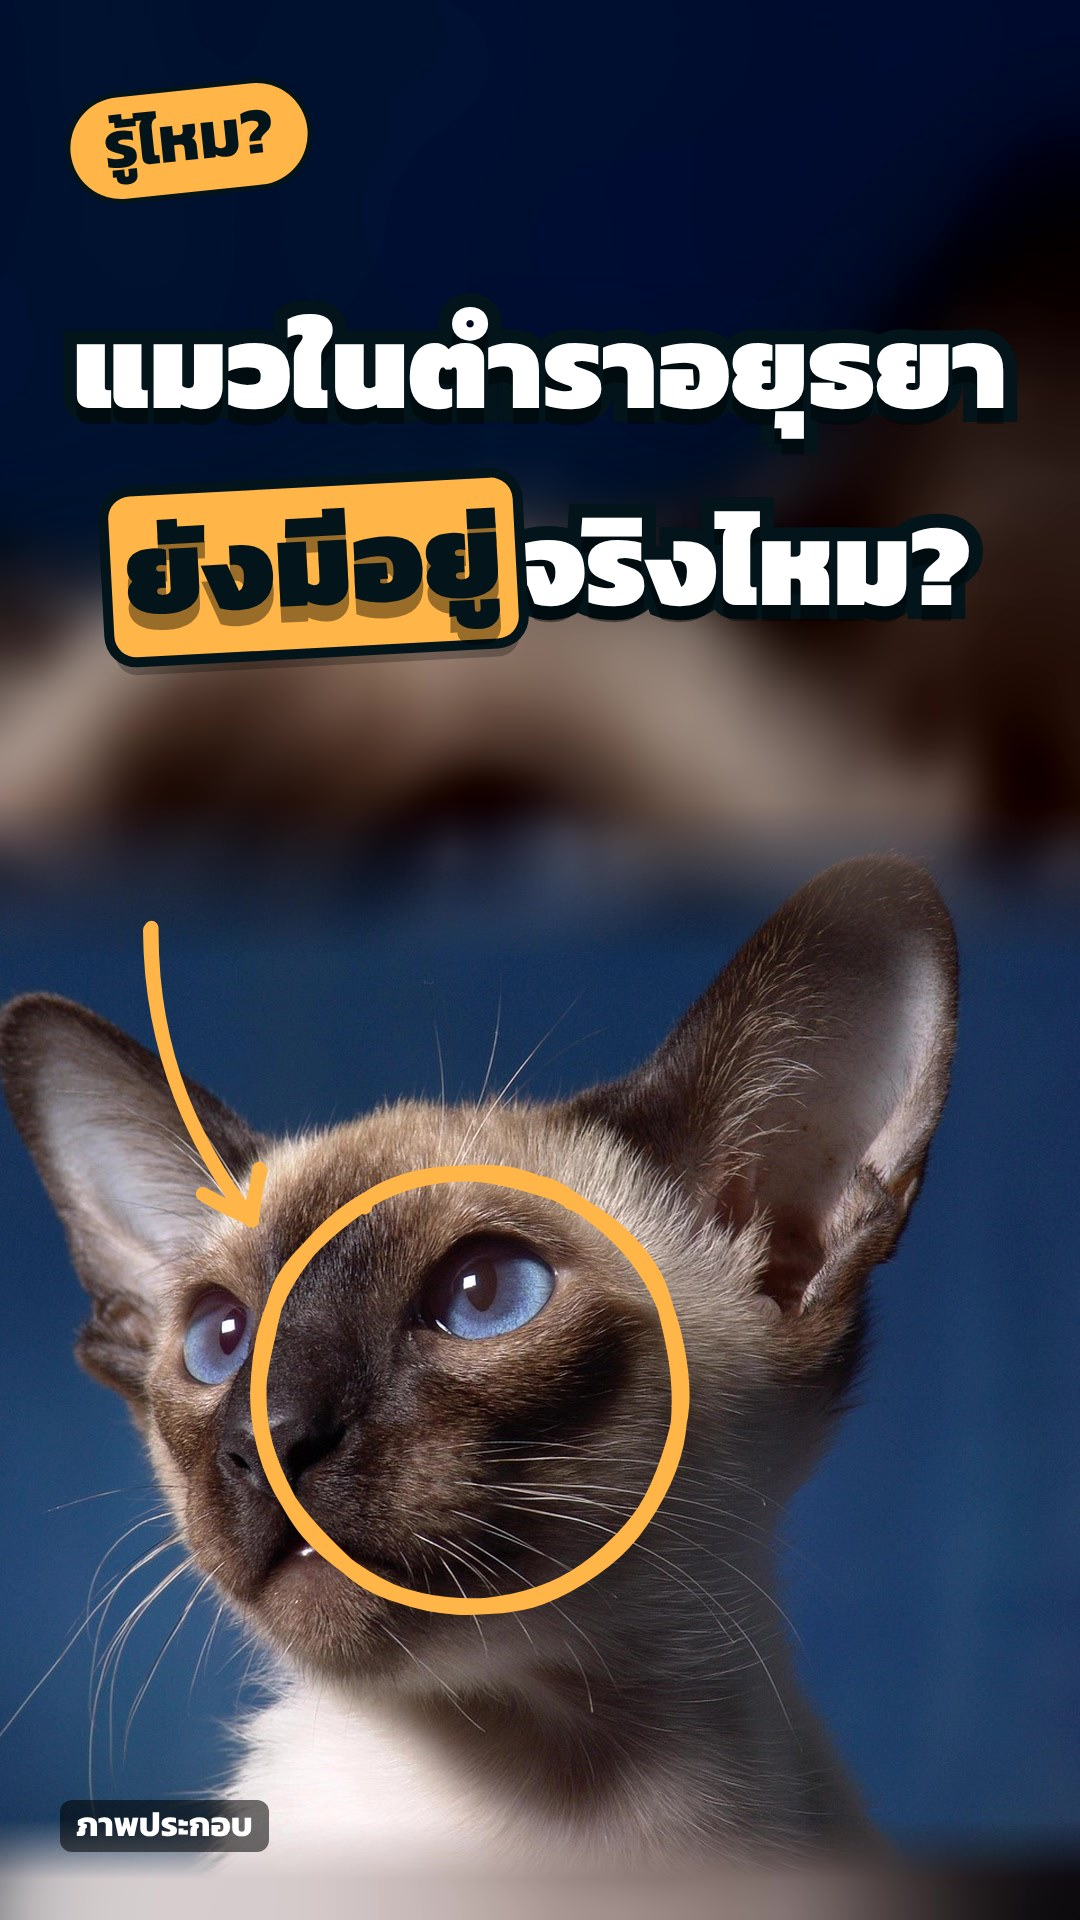
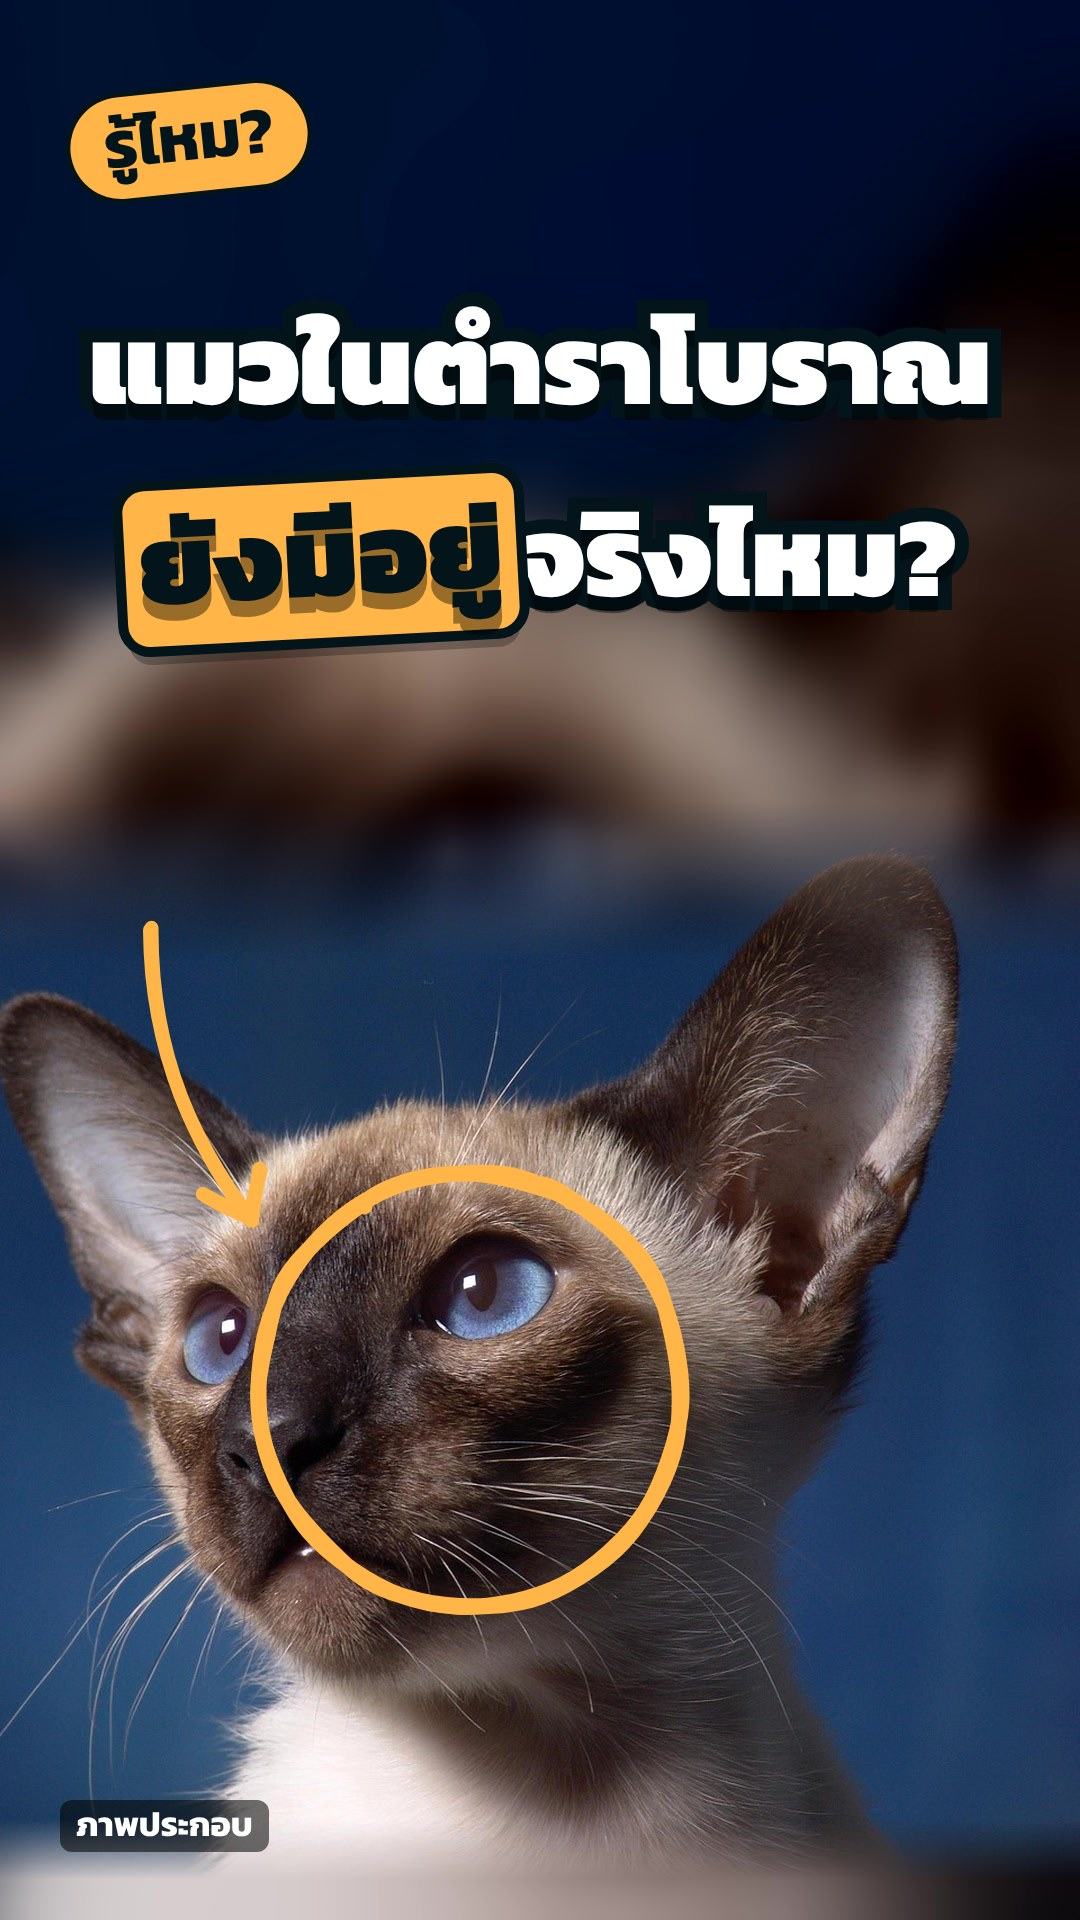
fix review items (credits, upload users, cover B text) + DELIVERY.md

Changed region(s): [[0.0611, 0.1562, 0.9167, 0.375], [0.4889, 0.1562, 0.9472, 0.25]]

diff --git a/projects/2026-11-28-knowledge-viral-cat/DELIVERY.md b/projects/2026-11-28-knowledge-viral-cat/DELIVERY.md
@@ -1,0 +1,68 @@
+# ส่งมอบ: แมวพีพีไวรัล ทาสีไหม? แมววิลาศจริงไหม? (2026-11-28, knowledge, ไทย, 9:16)
+
+- ไฟล์: `renders/viral-cat-th.mp4` (44.3 วิ, 1080x1920) — ปก `covers/cover-a.jpg` (หลัก) / `covers/cover-b.jpg`
+- ข้อความอัปโหลด: `upload.md` (YouTube / TikTok / FB Reels) — ผู้ใช้อัปโหลดเอง
+- ความยาว 44.3 วิ (เกินค่าเริ่มต้น 40): รอบแรก 52 วิ ตัดทั้งประเด็น 3 จุดไปไว้บนจอ ไม่ตัดคำเชื่อม (`shots.json` long_reason)
+
+## ที่มาเรื่องไวรัล
+- คลิปแมวลายแปลกบนเกาะพีพี โพสต์บน Instagram โดยนักท่องเที่ยว ชาวเน็ตเถียงว่าลายจริงหรือแต่งสี คนไทยบางส่วนโยงกับ "แมววิลาศ"
+- แหล่ง: Sanook https://www.sanook.com/news/9912806/ , The Thaiger https://thethaiger.com/th/news/1634547/ (⚠ อ่านได้แค่สรุปผลค้นหา: proxy บล็อกทั้งสองเว็บ)
+- ยอดวิวไม่ตรงกัน (เนื้อข่าว >4 ล้าน / พาดหัว 6 ล้าน) → คลิปพูด "หลายล้าน" เท่านั้น; 3.4M ไลก์ไม่พบแหล่ง = ไม่ใช้; ไม่ระบุว่าคนเถียงเป็น "ฝรั่ง" (ไม่มีแหล่ง)
+- ไม่มีภาพ/คลิปแมวตัวจริง ไม่มีภาพข่าว: แมวทุกตัวเป็นภาพ Pixabay ติดป้าย "ภาพประกอบ"
+
+## โครงเวลา
+| วิ | beat | พูด |
+|---|---|---|
+| 0.0 | hook | แมวบนเกาะพีพีตัวเดียว ทำชาวเน็ตเถียงกันสนั่น ว่าโดนทาสีมาหรือเปล่า |
+| 5.6 | setup | แต่คนไทยหลายคนกลับบอกว่า นี่มันแมววิลาศในตำราแมวโบราณนี่นา (จอ: คลิปไวรัลบนเกาะพีพี · หลายล้านวิว) |
+| 11.0 | explain | ตำรามีแมวมงคล 17 ชนิด, วิลาศ = ตัวดำ ขาวแซมหู หาง ขา |
+| 19.2 (43%) | reveal | ลายแบบนี้ไม่ต้องทาสีก็เกิดได้ — ยีนทำให้เซลล์สีไปไม่ถึงบางจุด |
+| 28.5 | twist | แมวโบราณจริงไหม ยังตอบไม่ได้ — ตำราดูแค่สีขน/หน้าตา ไม่ได้ตรวจสายเลือด |
+| 35.6 | share | แมวในตำราที่ยังเห็นได้: วิเชียรมาศ สีสวาด ขาวมณี (จอ: 5 พันธุ์ อัตลักษณ์ชาติ ครม. พ.ย. 2568) |
+| 41.4 | cta/loop | แมวที่บ้านลายตรงตำราไหม เมนต์บอกหน่อย → วนเข้า hook |
+
+## ข้อเท็จจริง + แหล่ง + ป้าย (research.md)
+| ข้อ | ป้าย | แหล่ง |
+|---|---|---|
+| ตำราแมว: สมุดข่อย เชื่อกันว่าสมัยอยุธยา, แมวมงคล 17 ชนิด | ✅ | Wikipedia Tamra Maew (en/th) |
+| วิลาศ: ตัวดำ ขาวแซมหู หาง ขา (จอ: "ตามคำบรรยายบางฉบับ") | ⚠ | ศิลปวัฒนธรรม, Thaiger อ้าง ศมส. |
+| หย่อมขาว = ยีน KIT (white spotting) เซลล์สีเคลื่อนไปไม่ถึง | ✅ | Wikipedia Cat coat genetics (UC Davis VGL), MedlinePlus KIT |
+| ตำราบรรยายลักษณะภายนอก ไม่ใช่สายพันธุกรรม; ยังไม่มีผู้เชี่ยวชาญยืนยัน | ⚠ | เรียบเรียงจากเนื้อตำรา + Thaiger |
+| ครม. 18 พ.ย. 2568: แมวไทย 5 พันธุ์ อัตลักษณ์ชาติ | ✅ | Time Out Bangkok, Thaiger, Nation |
+
+## ผล check
+- look.py check --final: OK | pacing.py: OK (WARN เฉลยที่ 43% — reviewer รับได้ เพราะต้องปูเรื่องวิลาศก่อน) | contact_sheet verify: frames OK (ผู้กำกับดูครบ 5 แผ่น + reviewer ทุกแผ่น)
+- cover_check --final: OK (ปก B แก้เป็น "แมวในตำราโบราณ" หลังรีวิว — "อยุธยา" ตัดคำกำกับ "เชื่อกันว่า")
+- SOUND.md: พากย์ -18.4 LUFS, ไฟล์จบ -16.2 LUFS, true peak -5.1 dBFS, ไม่มี WARN
+- reviewer: ผ่านหลังแก้ 3 ข้อ (เครดิต cta, ชื่อผู้ถ่ายใน upload.md, ข้อความปก B) ไม่ต้องเรนเดอร์ใหม่ (`review.md`)
+
+## เครดิต
+- ภาพ/วิดีโอ Pixabay (Pixabay Content License): iddrm, TRAPHITHO, Solarselle77, zekibnc, Amshuwu, Nova2000, birgl, AndreasPetzold, 15claudia, yeracastelan — ลิงก์ครบใน `assets/CREDITS.md`
+- ภาพสมุดข่อยในคลิปเป็นกราฟิกวาดเอง ("ภาพวาดประกอบ ไม่ใช่ต้นฉบับ"): สแกน PD จาก Wikimedia ดึงไม่ได้ (429 ซ้ำ), Smithsonian ไม่มีภาพ
+- เพลง: "Finding, curious, taking" by Wobinidan (CC BY 3.0) https://www.jamendo.com/track/209419 (ไม่ใช่ Mixkit; ไม่ซ้ำ 3 ตอนล่าสุด) — ⚠ ไลเซนส์อ้างจากเครดิตตอนก่อน เพราะ Openverse 429 + jamendo.com นอก allowlist
+- เสียงพากย์ ElevenLabs George eleven_v3 (atempo 1.1, -18 LUFS) — ติด label AI บน TikTok
+
+## ค่าใช้จ่าย (ประมาณ)
+- ElevenLabs TTS 2 เทค ~1,100 ตัวอักษร + scribe ถอดเสียง ~1.6 นาที; Pixabay/Jamendo ฟรี
+
+## ชื่อ / ปก A/B
+- ชื่อแนะนำ: **แมวเกาะพีพีไวรัล ทาสีมาหรือลายจริง? เทียบตำราแมววิลาศ** (อีก 2 ตัวเลือกใน upload.md)
+- ปก A (หลัก): แมวสองสีจริง + วงรอบหน้าขาว + "ลายแบบนี้ / [ทาสี]มาจริงเหรอ?" ป้าย "ไวรัล"
+- ปก B: แมววิเชียรมาศจริง + วง + "แมวในตำราโบราณ / [ยังมีอยู่]จริงไหม?" ป้าย "รู้ไหม?"
+- หลัง ≥48 ชม. จด CTR: `python3 tools/cover_check.py log projects/2026-11-28-knowledge-viral-cat --variant a --ctr <%> --impressions <n>`
+
+## ฟังก่อนอัปโหลด (ยังไม่มีใครฟังเสียงจริง)
+- 0:00 + รอยต่อลูป 0:44 → 0:00 — เปิดคลิปไม่กระตุก ท้ายไหลเข้าหัว
+- 0:04.1 "ว่าโดนทาสี" — whoosh ทับคำ ตรงจังหวะไหม
+- 0:08.2 "แมววิลาศ" — ต้องอ่าน วิ-ลาด
+- 0:12.7 "สิบเจ็ดชนิด" — เลขชัด (มี ding)
+- 0:17.5-18.4 "หาง… แล้วก็ขา" — whoosh 2 ครั้งไม่กลบคำ
+- 0:35.8 เสียงตราประทับ (ดังสุดในคลิป) + แฟลชขาว ทับต้นคำ "แมวในตำรา"
+- 0:38.1-40.6 "วิเชียรมาศ / สีสวาด / ขาวมณี" + เพลงยังได้ยินไหม (เบากว่าพูด 34.5 LU)
+
+## บทเรียน
+- George อ่านไทยบทนี้ ~9.4 ตัว/วิ (ไม่ใช่ 12.5) → ประมาณจาก 9.5 ตัว/วิ ตั้งแต่ร่างบท จะได้ไม่ต้องอัดซ้ำ
+- ข่าวไทย (sanook/thaiger) อยู่นอก allowlist: ยืนยันเรื่องไวรัลได้แค่ระดับสรุปผลค้นหา
+- Wikimedia upload 429 ทั้งตอน → ภาพตำราต้องวาดเอง; ถ้าจะใช้สแกนจริงตอนหน้า ดึงไว้ล่วงหน้าตอนขั้น research
+- ผู้กำกับ commit wip ระหว่าง editor ทำงาน (`git add -A` ทั้งโฟลเดอร์) ทำให้ snapshot PNG ~30 MB เข้า history: ตอนหน้า wip ให้ add เฉพาะไฟล์ต้นฉบับ
+- ลงวันละ 1-2 คลิป เว้นระยะ (คำแนะนำ ไม่มีหลักฐานว่าลงเยอะแล้วโดนลงโทษ)

diff --git a/projects/2026-11-28-knowledge-viral-cat/assets/CREDITS.md b/projects/2026-11-28-knowledge-viral-cat/assets/CREDITS.md
@@ -5,15 +5,13 @@
 ## footage
 - pixabay-108560.mp4: Nova2000 (Pixabay Content License) https://pixabay.com/videos/id-108560/
 - pixabay-168334.mp4: iddrm (Pixabay Content License) https://pixabay.com/videos/id-168334/
+- pixabay-16975.mp4: TRAPHITHO (Pixabay Content License) https://pixabay.com/videos/id-16975/
 - pixabay-185937.mp4: zekibnc (Pixabay Content License) https://pixabay.com/videos/id-185937/
-- pixabay-2228581.jpg: Seaq68 (Pixabay Content License) https://pixabay.com/photos/cat-black-portrait-domestic-cat-2228581/
 Photo by 15claudia (Pixabay Content License) https://pixabay.com/photos/cat-korat-nature-feline-2669735/
 - pixabay-339775.mp4: Amshuwu (Pixabay Content License) https://pixabay.com/videos/id-339775/
 Video by Solarselle77 (Pixabay Content License) https://pixabay.com/videos/id-347102/
 - pixabay-3683186.jpg: birgl (Pixabay Content License) https://pixabay.com/photos/cat-domestic-animal-animal-3683186/
-- pixabay-39009.mp4: yeracastelan (Pixabay Content License) https://pixabay.com/videos/id-39009/
 - pixabay-46226.mp4: yeracastelan (Pixabay Content License) https://pixabay.com/videos/id-46226/
-- pixabay-5162540.jpg: johnmoelholt (Pixabay Content License) https://pixabay.com/photos/cat-black-white-animal-feline-pet-5162540/
 - pixabay-806210.jpg: AndreasPetzold (Pixabay Content License) https://pixabay.com/photos/cat-siamese-portrait-cat-baby-806210/
 
 ## music

diff --git a/projects/2026-11-28-knowledge-viral-cat/upload.md b/projects/2026-11-28-knowledge-viral-cat/upload.md
@@ -21,7 +21,7 @@
 - พันธุศาสตร์สีขน: Wikipedia "Cat coat genetics" (อ้าง UC Davis VGL), MedlinePlus KIT gene https://medlineplus.gov/genetics/gene/kit
 - แมวไทย 5 พันธุ์: Time Out Bangkok, The Thaiger, The Nation (พ.ย. 2568)
 
-เครดิตภาพ/วิดีโอ: Pixabay (Pixabay Content License) — รายชื่อและลิงก์ครบใน assets/CREDITS.md (__PIXABAY_USERS__)
+เครดิตภาพ/วิดีโอ: Pixabay (Pixabay Content License) — รายชื่อและลิงก์ครบใน assets/CREDITS.md — iddrm, TRAPHITHO, Solarselle77, zekibnc, Amshuwu, Nova2000, birgl, AndreasPetzold, 15claudia, yeracastelan
 ภาพตำราในคลิปเป็นภาพวาดประกอบ ไม่ใช่ต้นฉบับ
 เพลง: "Finding, curious, taking" by Wobinidan (CC BY 3.0) https://www.jamendo.com/track/209419
 เสียงพากย์สร้างด้วย AI (ElevenLabs)
